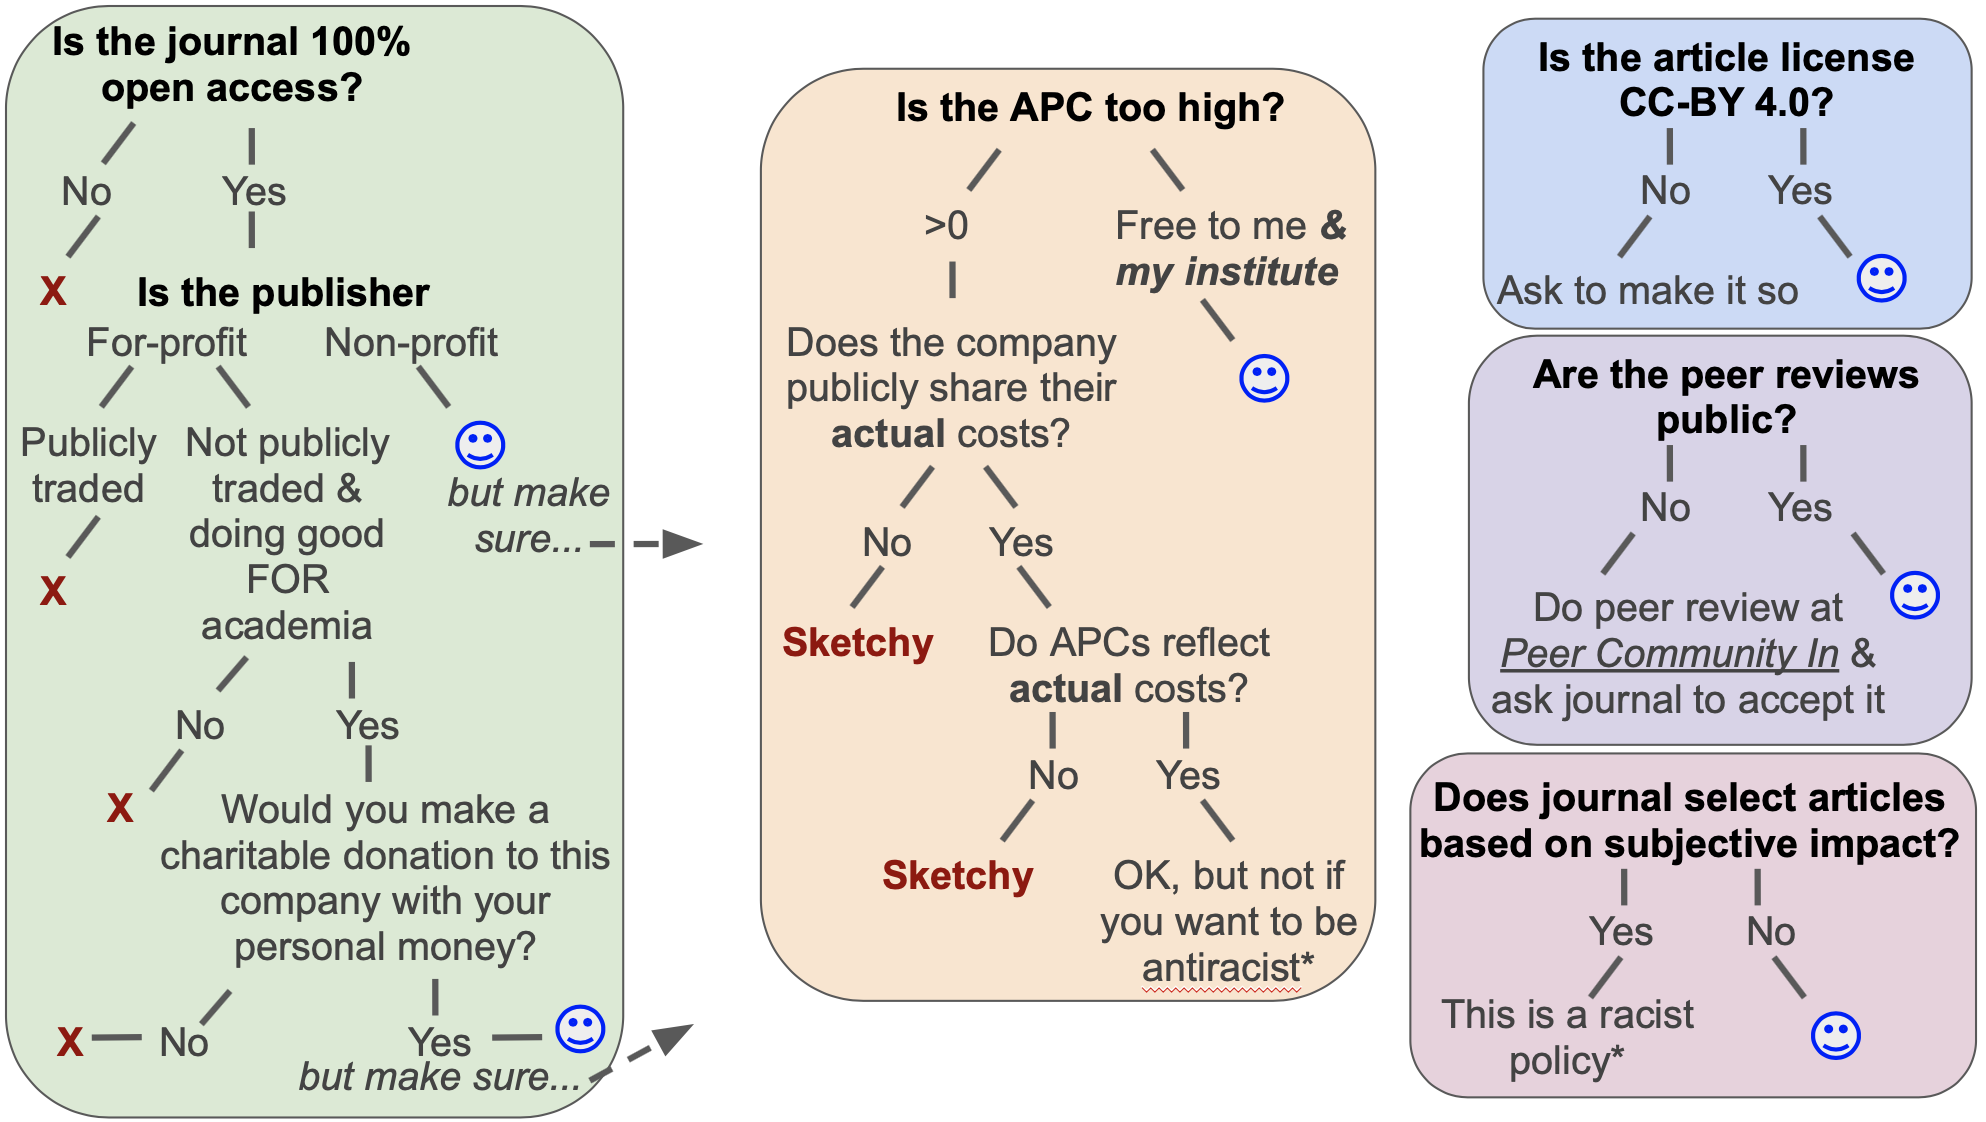
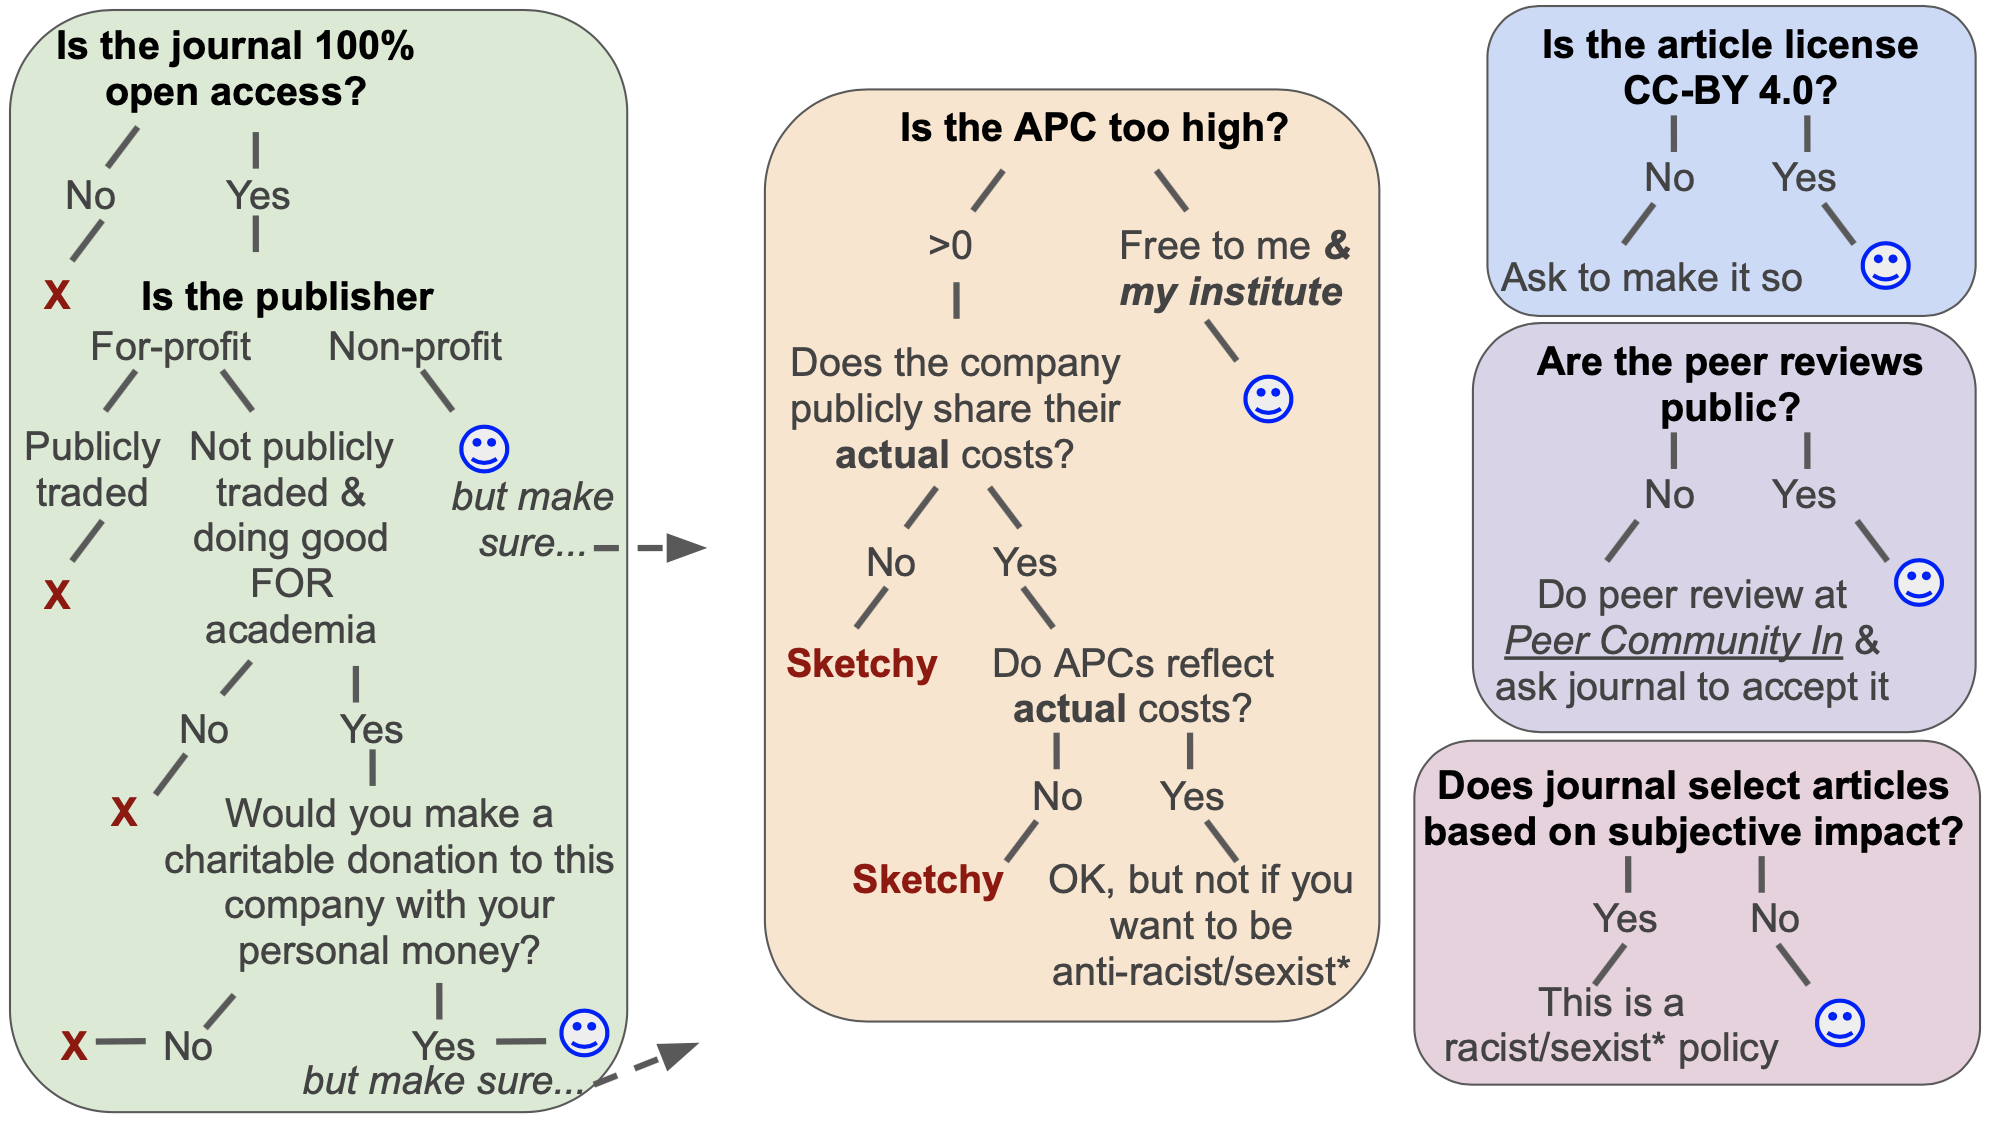
updated ethical publishing guide

diff --git a/journals.html b/journals.html
@@ -58,7 +58,7 @@ Guide to <i>We can shift academic culture through publishing choices</i></font><
 
 <p align=center><span style='font-size:10.0pt'><img src="images/publishethically.png" border=0 width=700></p>
 
-*Learn about antiracism: <a href="https://www.ibramxkendi.com/how-to-be-an-antiracist-1" target="blank">How to be an antiracist</a> by Ibram Kendi, <a href="http://www.ijeomaoluo.com" target="blank">So you want to talk about race</a> by Ijeoma Oluo
+*...and other -ists. Learn about antiracism: <a href="https://www.ibramxkendi.com/how-to-be-an-antiracist-1" target="blank">How to be an antiracist</a> by Ibram Kendi, <a href="http://www.ijeomaoluo.com" target="blank">So you want to talk about race</a> by Ijeoma Oluo
 <br><br>
 </tr>
 
